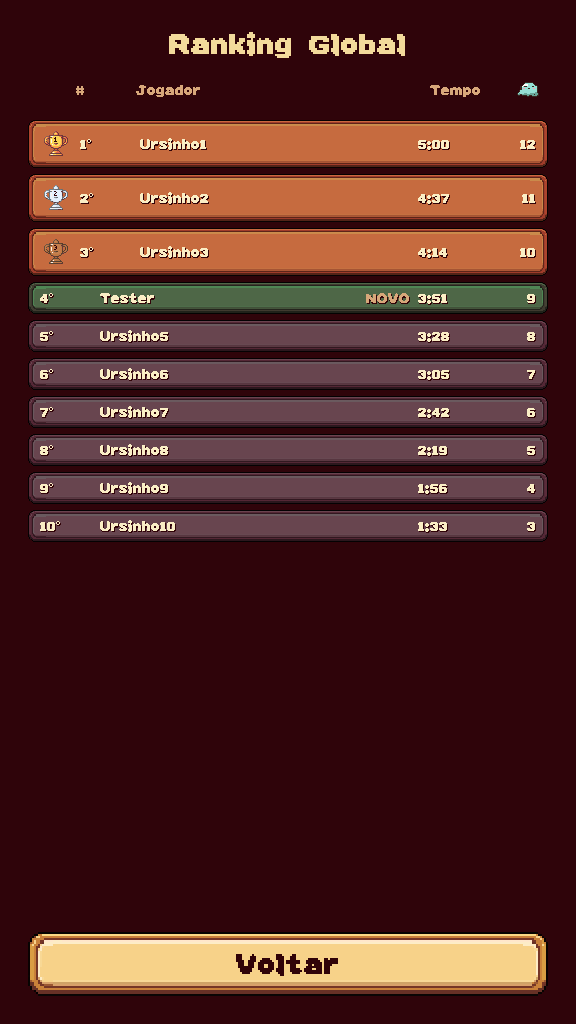
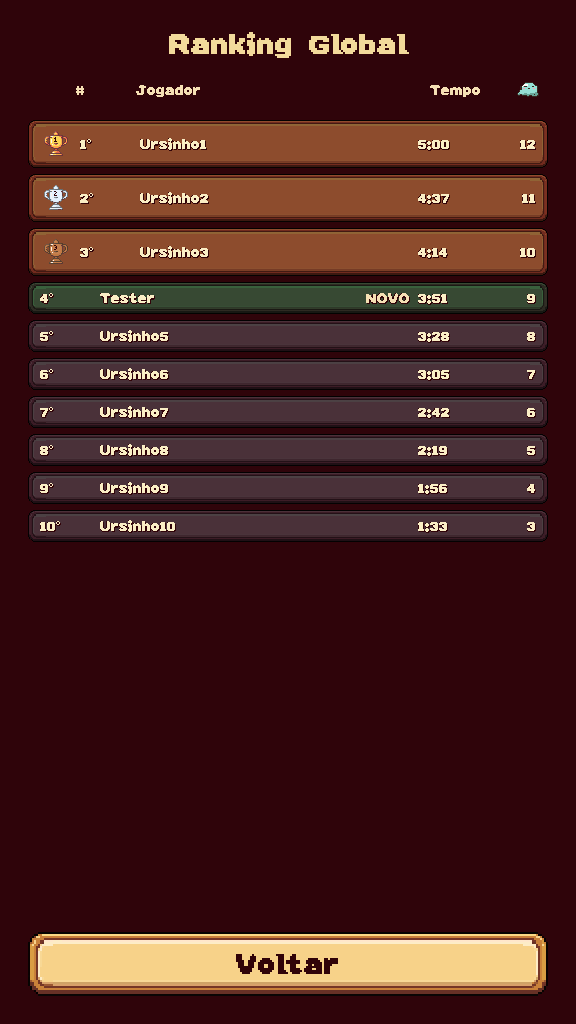
fix(ursinho-ui): ícones de bioma no HUD, glifo l, legibilidade mobile, largura máxima e ícone do app

Changed region(s): [[0.0312, 0.0625, 0.9688, 0.5312]]

diff --git a/games/pegue-o-ursinho/godot/art_source/pixellab/ui/_raw/build_theme.py b/games/pegue-o-ursinho/godot/art_source/pixellab/ui/_raw/build_theme.py
@@ -49,10 +49,10 @@ box('bigpanel', 'panel', 40, (44, 44, 44, 44))
 cream = 'Color(0.9804, 0.9333, 0.7725, 1)'
 ink = 'Color(0.1922, 0.0118, 0.0314, 1)'
 honey = 'Color(0.9529, 0.8549, 0.6078, 1)'
-dim = 'Color(0.8431, 0.6549, 0.4784, 1)'
+dim = 'Color(0.9608, 0.8784, 0.7059, 1)'
 r = ['[resource]', 'default_font = ExtResource("font_main")', 'default_font_size = 16',
      'Label/colors/font_color = ' + cream, 'Label/colors/font_shadow_color = ' + ink,
-     'Label/constants/shadow_offset_x = 1', 'Label/constants/shadow_offset_y = 1', 'Label/font_sizes/font_size = 16',
+     'Label/constants/shadow_offset_x = 1', 'Label/constants/shadow_offset_y = 1', 'Label/constants/outline_size = 1', 'Label/colors/font_outline_color = ' + ink, 'Label/font_sizes/font_size = 16',
      'Button/colors/font_color = ' + ink, 'Button/colors/font_hover_color = ' + ink, 'Button/colors/font_pressed_color = ' + ink,
      'Button/colors/font_focus_color = ' + ink, 'Button/colors/font_disabled_color = Color(0.4784, 0.4157, 0.5569, 1)',
      'Button/font_sizes/font_size = 32',

diff --git a/games/pegue-o-ursinho/godot/art_source/pixellab/ui/fonts/build_font.py b/games/pegue-o-ursinho/godot/art_source/pixellab/ui/fonts/build_font.py
@@ -76,6 +76,9 @@ NEW['#'] = P('.##..##.', '.##..##.', '########', '########', '.##..##.', '######
 NEW['|'] = {(c, r) for c in (7, 8) for r in range(3, 15)}
 NEW['['] = P('####', '##..', '##..', '##..', '##..', '##..', '##..', '##..', '##..', '####', ox=5, oy=3)
 NEW[']'] = {(15 - x + 0, y) for x, y in NEW['[']}
+# 'l' redesenhado: haste com bandeira no topo e pe curvo a direita (distinto de | I 1)
+NEW['l'] = P('.####.', '..###.', '..###.', '..###.', '..###.', '..###.', '..###.', '..###.', '..####', '..#####', ox=4, oy=3)
+NEW['l'] = {(c, r) for c, r in NEW['l']}
 ALL = dict(G); ALL.update(NEW)
 adv = lambda ch: ADV.get(ch, ADV.get(ch.lower(), 800))
 for ch in NEW:

diff --git a/games/pegue-o-ursinho/godot/art_source/pixellab/ui/_raw/assemble.py b/games/pegue-o-ursinho/godot/art_source/pixellab/ui/_raw/assemble.py
@@ -62,7 +62,7 @@ def plum(im):
             r, g, b_, a = px[x, y]
             if a == 0: continue
             h, s, v = colorsys.rgb_to_hsv(r/255, g/255, b_/255)
-            r, g, b_ = [round(c*255) for c in colorsys.hsv_to_rgb(0.95, min(1, s*0.75), v*0.42)]
+            r, g, b_ = [round(c*255) for c in colorsys.hsv_to_rgb(0.95, min(1, s*0.75), v*0.30)]
             px[x, y] = (r, g, b_, a)
     return out
 save(plum(b), 'chip_dark.png')
